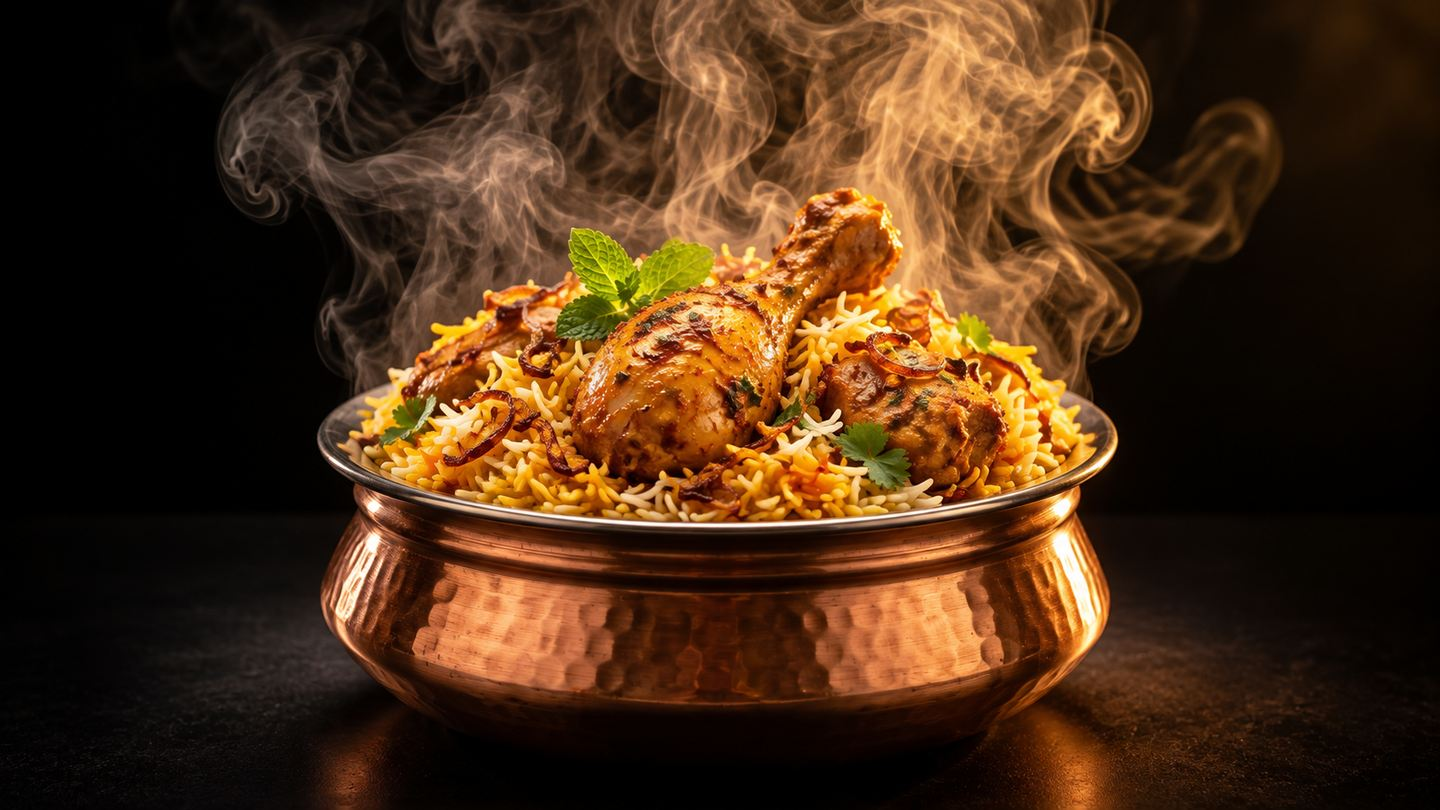
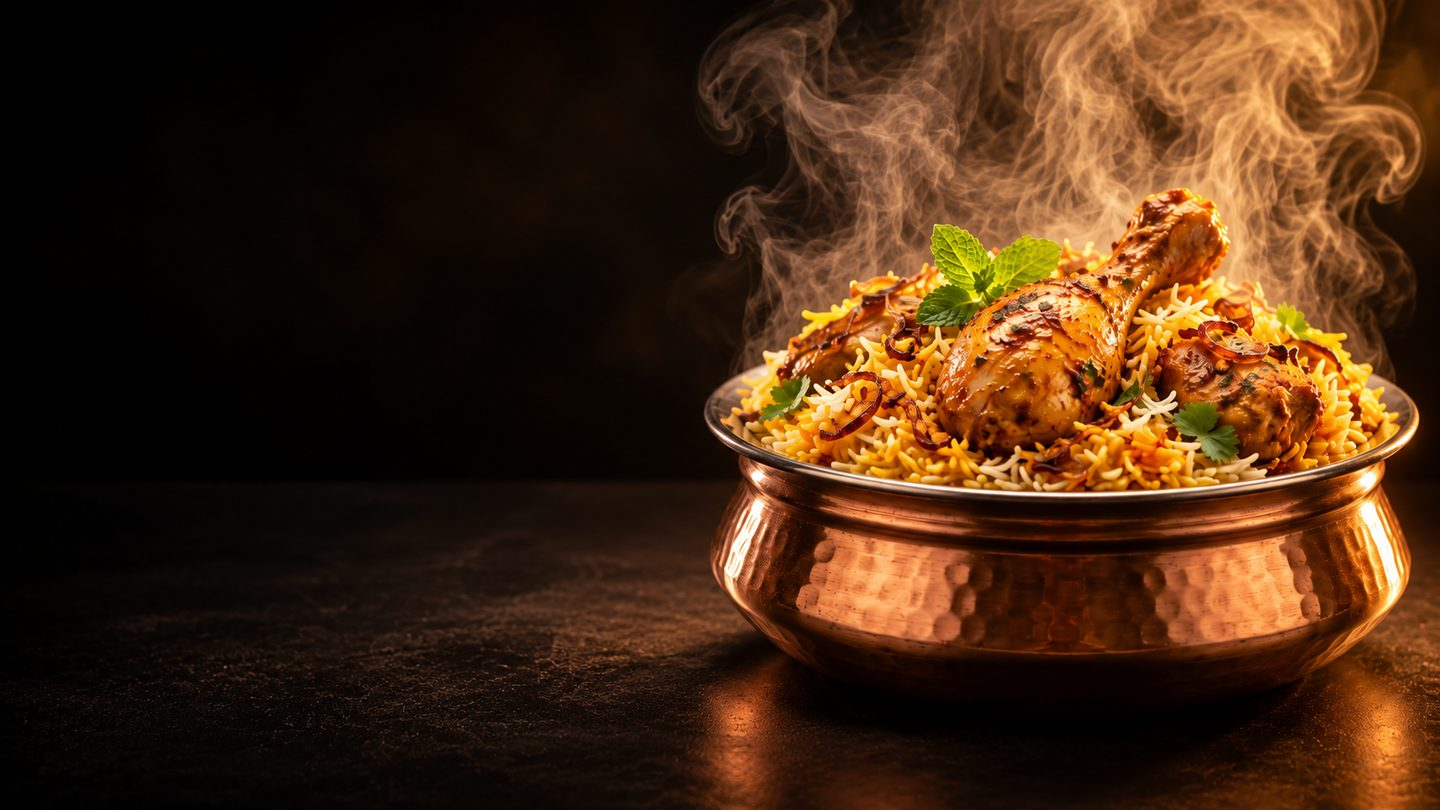
Replace hero photo and add continuous steam motion

diff --git a/src/main.js b/src/main.js
@@ -8,7 +8,7 @@ const directions =
 document.querySelector("#app").innerHTML = `
 <a class="skip" href="#main">Skip to content</a>
 <header><a class="brand" href="#home"><span class="brand-icon" aria-hidden="true">✳</span><span>NEW SAGAR<small>RESTAURANT & BAKERS</small></span></a><nav aria-label="Main navigation"><a href="#menu">Menu</a><a href="#about">Our place</a><a href="#visit">Visit us</a><a href="#faq">FAQs</a></nav><a class="button small" href="tel:${phone}">Call to order ↗</a></header>
-<main id="main"><section id="home" class="hero"><div class="hero-copy"><p class="eyebrow">SURARAM, HYDERABAD</p><h1>Good food.<br>Great company.<br><em>Your next stop.</em></h1><p class="intro">From Hyderabadi biryani to kebabs and Chinese favourites, discover a world of flavour at New Sagar Restaurant & Bakers.</p><div class="actions"><a class="button" href="#menu">Explore the menu <span>↗</span></a><a class="text-link" href="tel:${phone}">Call to order ↗</a></div><p class="location-note">⌖ Gajularamaram · Suraram</p></div><div class="hero-art"><img id="hero-photo" src="/biryani-hero.jpg" width="1440" height="810" alt="Fresh Hyderabadi chicken biryani served in a copper handi with aromatic smoke rising" fetchpriority="high" decoding="async"><div class="steam" aria-hidden="true"><span></span><span></span><span></span></div><div class="food-label">A little spice.<br><em>A lot of flavour.</em></div></div></section>
+<main id="main"><section id="home" class="hero"><div class="hero-copy"><p class="eyebrow">SURARAM, HYDERABAD</p><h1>Good food.<br>Great company.<br><em>Your next stop.</em></h1><p class="intro">From Hyderabadi biryani to kebabs and Chinese favourites, discover a world of flavour at New Sagar Restaurant & Bakers.</p><div class="actions"><a class="button" href="#menu">Explore the menu <span>↗</span></a><a class="text-link" href="tel:${phone}">Call to order ↗</a></div><p class="location-note">⌖ Gajularamaram · Suraram</p></div><div class="hero-art"><img id="hero-photo" src="/biryani-hero.jpg" width="1440" height="810" alt="Fresh Hyderabadi chicken biryani served in a copper handi with aromatic smoke rising" fetchpriority="high" decoding="async"><div class="steam" aria-hidden="true"><span></span><span></span><span></span><span></span><span></span><span></span></div><div class="food-label">A little spice.<br><em>A lot of flavour.</em></div></div></section>
 <div class="cuisine-strip" aria-label="Our cuisines">HYDERABADI <span>✳</span> BIRYANI <span>✳</span> NORTH INDIAN <span>✳</span> CHINESE <span>✳</span> KEBABS <span>✳</span> MUGHLAI <span>✳</span> SEAFOOD</div>
 <section id="menu" class="section"><div class="section-heading"><div><p class="eyebrow">FIND YOUR FAVOURITES</p><h2>Something for every craving.</h2></div><p>Explore the menu, then give us a call to confirm availability and place your order.</p></div><div class="menu-tools"><label class="search">Search the menu<input id="search" type="search" placeholder="Search dishes or descriptions…"></label><label>Category<select id="category"><option value="">All categories</option></select></label><label>Preference<select id="diet"><option value="">All dishes</option><option value="vegetarian">Vegetarian</option><option value="non-vegetarian">Non-vegetarian</option></select></label></div><p class="menu-note">Menu items, prices, ingredients and availability may change. Call to confirm details, including allergen information.</p><div id="menu-status" role="status" aria-live="polite"></div><div id="menu-grid" class="menu-grid"></div><div class="menu-call"><span>Have a dish in mind?</span><a href="tel:${phone}">Call for today’s menu ↗</a></div><div class="order-platforms" aria-labelledby="order-platforms-title"><h3 id="order-platforms-title">Prefer to order online?</h3><p>Choose a platform to view the menu and check delivery availability for your address.</p><div class="platform-links"><a class="button order-platform" href="https://www.swiggy.com/city/hyderabad/new-sagar-restaurant-and-bakers-jeedimetla-suraram-rest619437" target="_blank" rel="noopener noreferrer">Order on Swiggy ↗</a><a class="button order-platform secondary" href="https://www.zomato.com/hyderabad/new-sagar-restaurant-bakers-suraram/order" target="_blank" rel="noopener noreferrer">Order on Zomato ↗</a></div></div></section>
 <section id="about" class="about section"><div><p class="eyebrow">WELCOME TO NEW SAGAR</p><h2>Your neighbourhood.<br>Your kind of flavour.</h2></div><div><p>Find us in Gajularamaram, Suraram, Hyderabad. Our cuisines span North Indian, Chinese, kebabs, Mughlai, biryani, Hyderabadi and seafood.</p><p>Planning a visit or picking up a meal? Call our team for the current menu, opening hours and service options.</p><a class="text-link" href="#visit">Come find us ↗</a></div></section>

diff --git a/src/style.css b/src/style.css
@@ -1280,3 +1280,74 @@ nav a:hover {
     transform: translate3d(-50%, 0, 0) !important;
   }
 }
+
+
+/* Layered wisps rise from the handi continuously, with staggered cycles. */
+.steam span {
+  left: 72%;
+  bottom: 34%;
+  width: clamp(118px, 13vw, 205px);
+  height: clamp(250px, 31vw, 370px);
+  background:
+    radial-gradient(ellipse 32% 17% at 48% 82%, rgba(255, 244, 224, 0.44), transparent 100%),
+    radial-gradient(ellipse 27% 14% at 62% 63%, rgba(255, 235, 208, 0.36), transparent 100%),
+    radial-gradient(ellipse 35% 15% at 39% 43%, rgba(255, 245, 228, 0.29), transparent 100%),
+    radial-gradient(ellipse 29% 13% at 58% 23%, rgba(255, 236, 212, 0.23), transparent 100%);
+  filter: blur(12px);
+  animation: smoke-drift 7.2s ease-in-out infinite;
+}
+.steam span:nth-child(2) {
+  left: 75%;
+  bottom: 33%;
+  width: clamp(105px, 12vw, 190px);
+  height: clamp(225px, 28vw, 335px);
+  animation-delay: 1.2s;
+}
+.steam span:nth-child(3) {
+  left: 69%;
+  bottom: 36%;
+  width: clamp(98px, 11vw, 175px);
+  height: clamp(210px, 27vw, 320px);
+  animation-delay: 2.4s;
+}
+.steam span:nth-child(4) {
+  left: 78%;
+  bottom: 35%;
+  width: clamp(110px, 12vw, 185px);
+  height: clamp(230px, 29vw, 345px);
+  animation-delay: 3.6s;
+}
+.steam span:nth-child(5) {
+  left: 71%;
+  bottom: 32%;
+  width: clamp(95px, 10vw, 165px);
+  height: clamp(205px, 26vw, 305px);
+  animation-delay: 4.8s;
+}
+.steam span:nth-child(6) {
+  left: 76%;
+  bottom: 37%;
+  width: clamp(100px, 11vw, 175px);
+  height: clamp(215px, 27vw, 320px);
+  animation-delay: 6s;
+}
+@keyframes smoke-drift {
+  0% { opacity: 0; transform: translate3d(-50%, 20px, 0) scale(0.74) rotate(-8deg); }
+  14% { opacity: 0.78; }
+  55% { opacity: 0.48; }
+  100% { opacity: 0; transform: translate3d(calc(-50% + 42px), -138px, 0) scale(1.3) rotate(14deg); }
+}
+@media (max-width: 850px) {
+  .steam span {
+    width: clamp(110px, 22vw, 170px);
+    height: clamp(235px, 42vw, 330px);
+    filter: blur(11px);
+  }
+}
+@media (max-width: 600px) {
+  .steam span {
+    width: clamp(90px, 26vw, 145px);
+    height: clamp(195px, 56vw, 290px);
+    filter: blur(10px);
+  }
+}

diff --git a/tests/customer.spec.js b/tests/customer.spec.js
@@ -179,7 +179,7 @@ test("motion adds pointer-reactive hero depth and labels steam as decorative", a
   await expect(photo).toHaveAttribute("src", "/biryani-hero.jpg");
   await expect.poll(() => photo.evaluate((image) => image.naturalWidth)).toBeGreaterThan(1000);
   await expect(steam).toHaveAttribute("aria-hidden", "true");
-  await expect(steam.locator("span")).toHaveCount(3);
+  await expect(steam.locator("span")).toHaveCount(6);
   const hero = page.locator(".hero");
   await page.mouse.move(60, 140);
   await expect.poll(() => hero.evaluate((element) => element.style.getPropertyValue("--pointer-x"))).not.toBe("");
